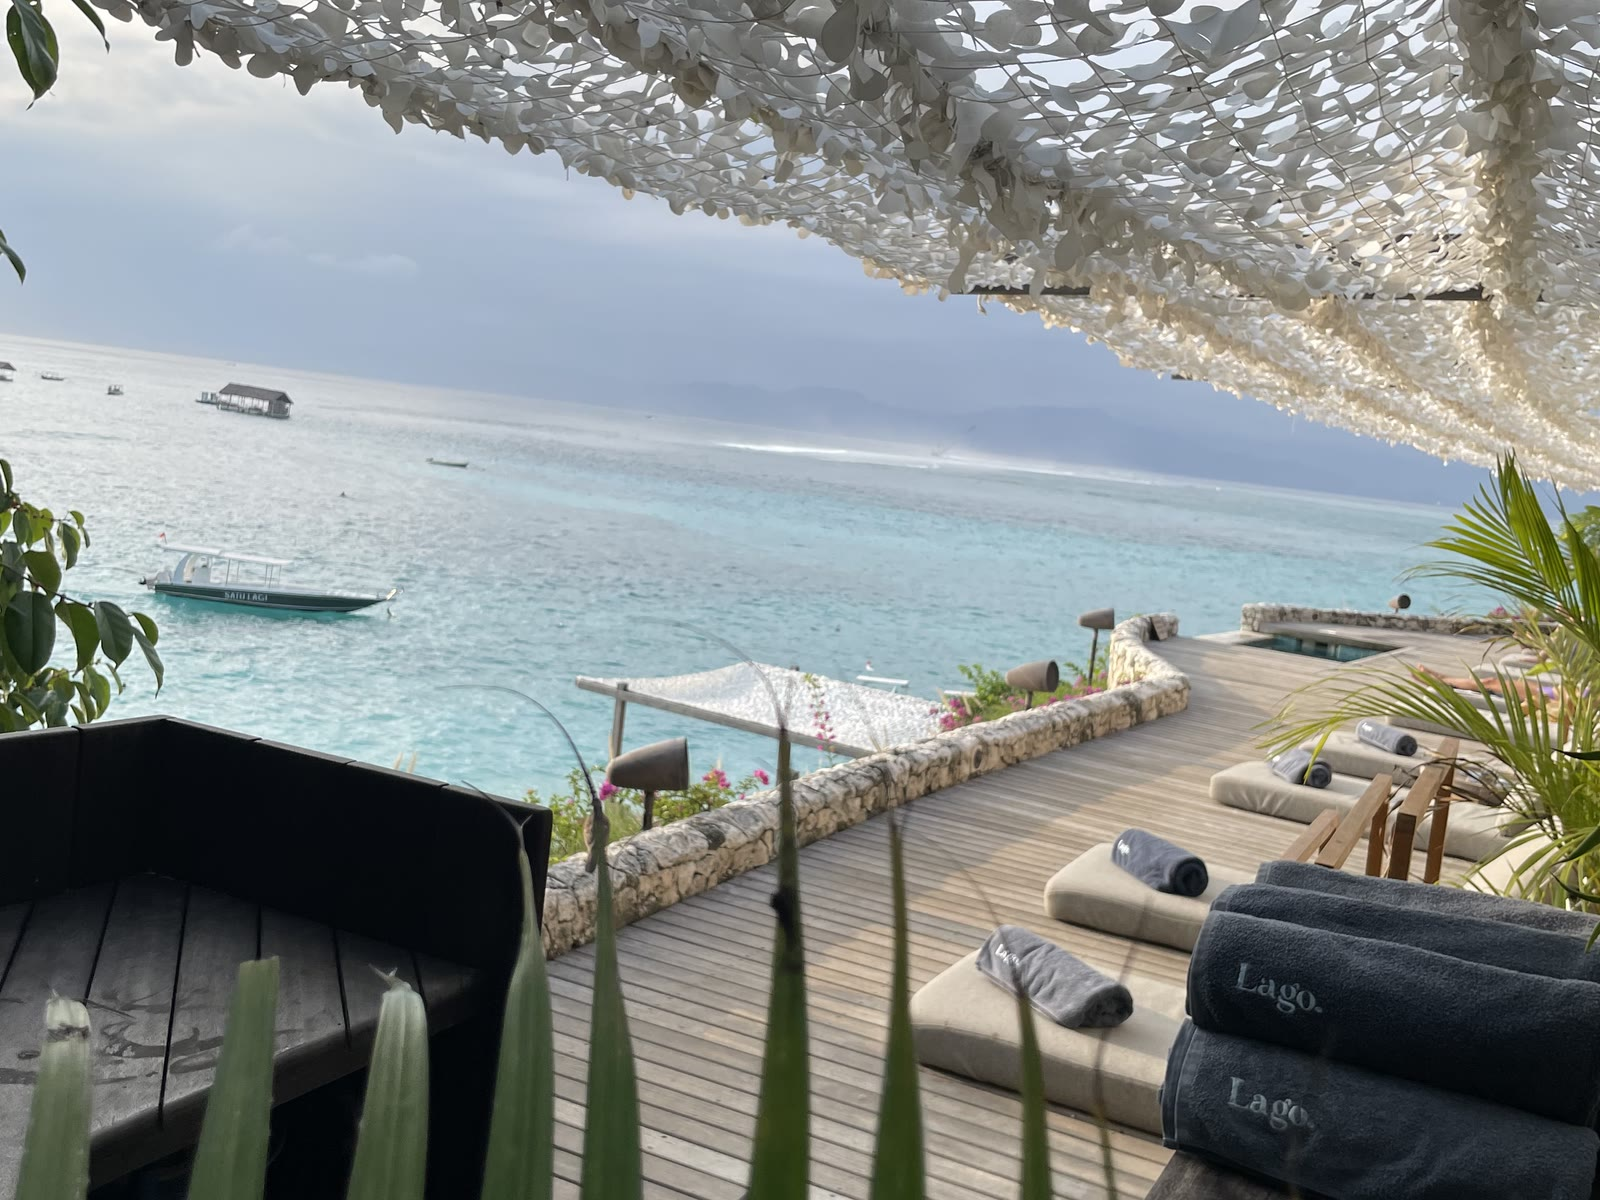
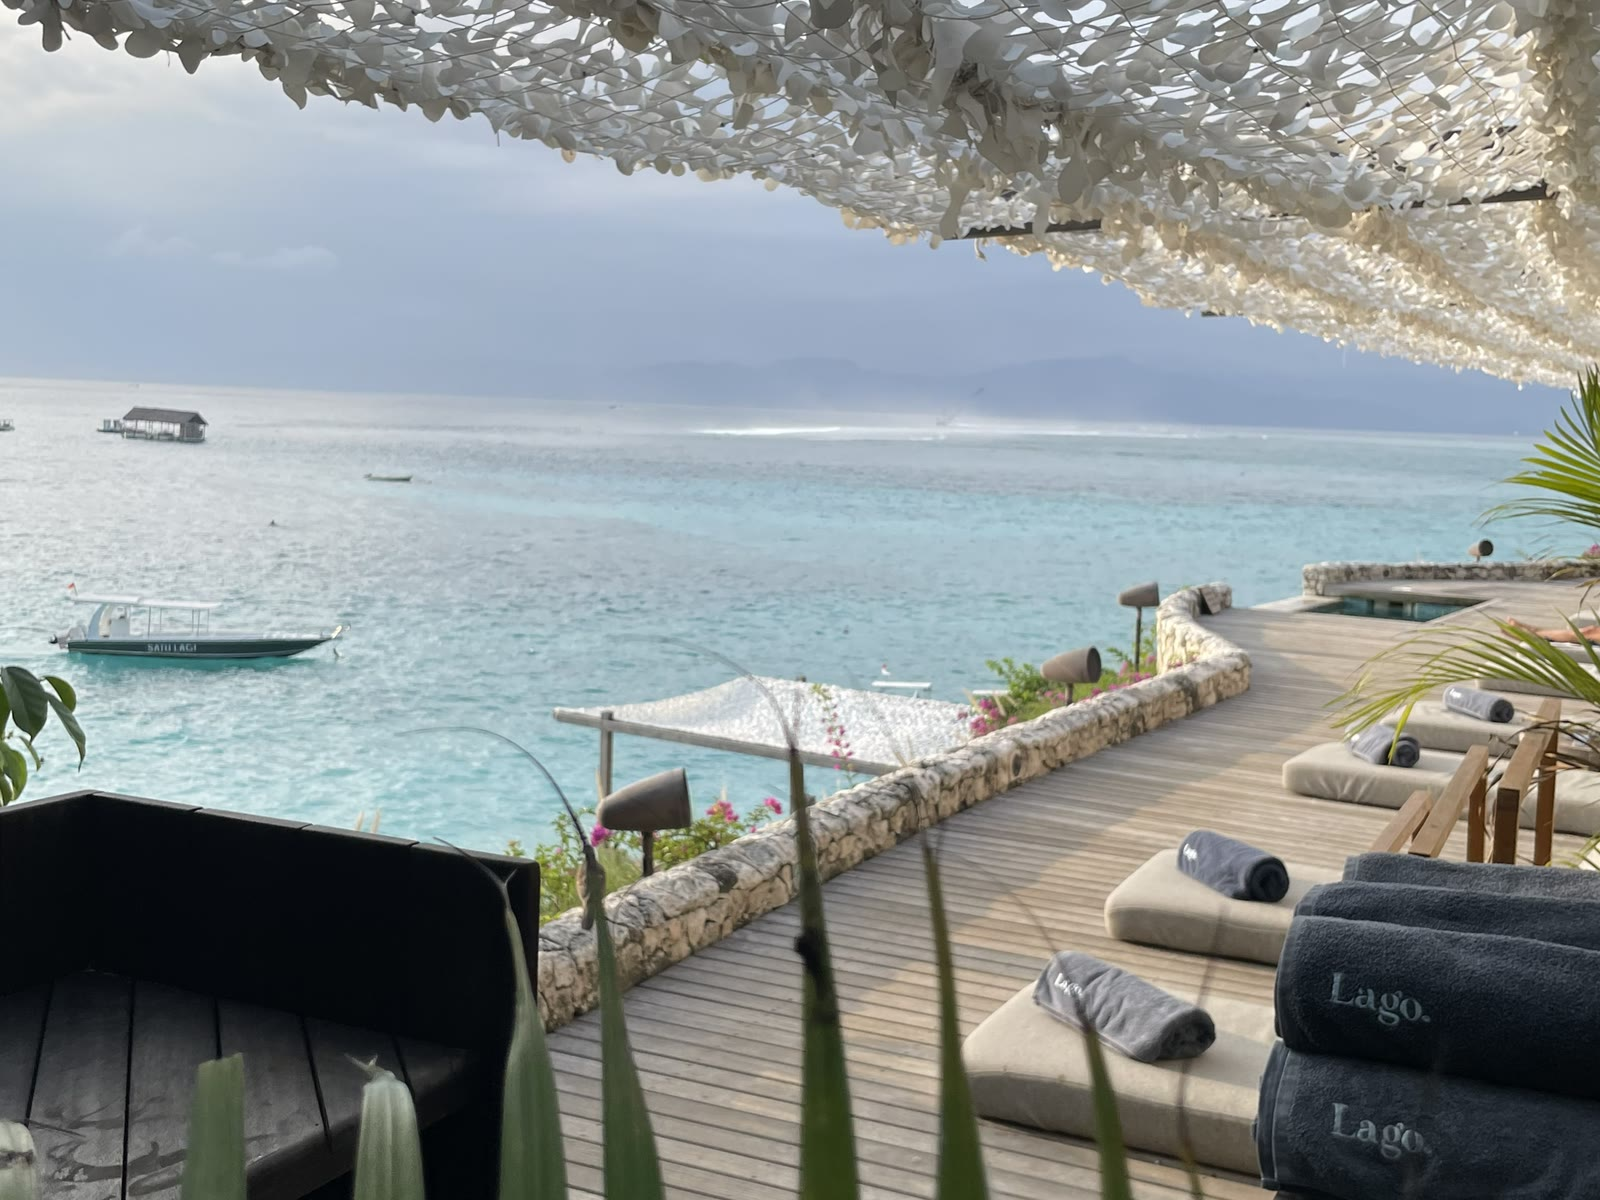
Travels: Bali deck photo levelled (rotation support in the crop pipeline); Yucatán nurse-shark photo replaced by its clip

diff --git a/travels/index.html b/travels/index.html
@@ -43,7 +43,7 @@
 
   <div class="trips">
     <a class="trip" href="#bali"><img src="img/bali/01.jpg" alt="" loading="lazy"><span class="tn">Bali</span><span class="tc">10 photos · 7 videos</span></a>
-    <a class="trip" href="#yucatan"><img src="img/yucatan/01.jpg" alt="" loading="lazy"><span class="tn">Yucatán</span><span class="tc">10 photos · 13 videos</span></a>
+    <a class="trip" href="#yucatan"><img src="img/yucatan/01.jpg" alt="" loading="lazy"><span class="tn">Yucatán</span><span class="tc">9 photos · 13 videos</span></a>
     <a class="trip" href="#tulum"><img src="img/tulum/04.jpg" alt="" loading="lazy"><span class="tn">Tulum</span><span class="tc">5 photos · 5 videos</span></a>
     <a class="trip" href="#baja"><img src="img/baja/01.jpg" alt="" loading="lazy"><span class="tn">Baja</span><span class="tc">7 photos · 6 videos</span></a>
     <a class="trip" href="#bolivia"><img src="img/bolivia/01.jpg" alt="" loading="lazy"><span class="tn">Bolivia</span><span class="tc">14 photos</span></a>
@@ -82,29 +82,28 @@
   <section class="gallery" id="yucatan">
     <a class="close" href="#travels" aria-label="close">×</a>
     <div class="strip">
-      <figure class="slide" id="yucatan-1"><a class="nav prev" href="#yucatan-23" aria-label="previous">‹</a><img src="img/yucatan/01.jpg" alt="" loading="lazy"><a class="nav next" href="#yucatan-2" aria-label="next">›</a><figcaption>Yucatán · 1 / 23</figcaption></figure>
-      <figure class="slide" id="yucatan-2"><a class="nav prev" href="#yucatan-1" aria-label="previous">‹</a><img src="img/yucatan/02.jpg" alt="" loading="lazy"><a class="nav next" href="#yucatan-3" aria-label="next">›</a><figcaption>Yucatán · 2 / 23</figcaption></figure>
-      <figure class="slide" id="yucatan-3"><a class="nav prev" href="#yucatan-2" aria-label="previous">‹</a><img src="img/yucatan/03.jpg" alt="" loading="lazy"><a class="nav next" href="#yucatan-4" aria-label="next">›</a><figcaption>Yucatán · 3 / 23</figcaption></figure>
-      <figure class="slide" id="yucatan-4"><a class="nav prev" href="#yucatan-3" aria-label="previous">‹</a><img src="img/yucatan/04.jpg" alt="" loading="lazy"><a class="nav next" href="#yucatan-5" aria-label="next">›</a><figcaption>Yucatán · 4 / 23</figcaption></figure>
-      <figure class="slide" id="yucatan-5"><a class="nav prev" href="#yucatan-4" aria-label="previous">‹</a><img src="img/yucatan/05.jpg" alt="" loading="lazy"><a class="nav next" href="#yucatan-6" aria-label="next">›</a><figcaption>Yucatán · 5 / 23</figcaption></figure>
-      <figure class="slide" id="yucatan-6"><a class="nav prev" href="#yucatan-5" aria-label="previous">‹</a><img src="img/yucatan/06.jpg" alt="" loading="lazy"><a class="nav next" href="#yucatan-7" aria-label="next">›</a><figcaption>Yucatán · 6 / 23</figcaption></figure>
-      <figure class="slide" id="yucatan-7"><a class="nav prev" href="#yucatan-6" aria-label="previous">‹</a><img src="img/yucatan/07.jpg" alt="" loading="lazy"><a class="nav next" href="#yucatan-8" aria-label="next">›</a><figcaption>Yucatán · 7 / 23</figcaption></figure>
-      <figure class="slide" id="yucatan-8"><a class="nav prev" href="#yucatan-7" aria-label="previous">‹</a><img src="img/yucatan/08.jpg" alt="" loading="lazy"><a class="nav next" href="#yucatan-9" aria-label="next">›</a><figcaption>Yucatán · 8 / 23</figcaption></figure>
-      <figure class="slide" id="yucatan-9"><a class="nav prev" href="#yucatan-8" aria-label="previous">‹</a><img src="img/yucatan/09.jpg" alt="" loading="lazy"><a class="nav next" href="#yucatan-10" aria-label="next">›</a><figcaption>Yucatán · 9 / 23</figcaption></figure>
-      <figure class="slide" id="yucatan-10"><a class="nav prev" href="#yucatan-9" aria-label="previous">‹</a><img src="img/yucatan/10.jpg" alt="" loading="lazy"><a class="nav next" href="#yucatan-11" aria-label="next">›</a><figcaption>Yucatán · 10 / 23</figcaption></figure>
-      <figure class="slide" id="yucatan-11"><a class="nav prev" href="#yucatan-10" aria-label="previous">‹</a><video controls preload="none" playsinline poster="img/yucatan/angelita-43.jpg"><source src="https://media.gcarosso.bio/travels/yucatan/angelita-43.mp4" type="video/mp4"></video><a class="nav next" href="#yucatan-12" aria-label="next">›</a><figcaption>Yucatán · 11 / 23 · video</figcaption></figure>
-      <figure class="slide" id="yucatan-12"><a class="nav prev" href="#yucatan-11" aria-label="previous">‹</a><video controls preload="none" playsinline poster="img/yucatan/angelita2-43.jpg"><source src="https://media.gcarosso.bio/travels/yucatan/angelita2-43.mp4" type="video/mp4"></video><a class="nav next" href="#yucatan-13" aria-label="next">›</a><figcaption>Yucatán · 12 / 23 · video</figcaption></figure>
-      <figure class="slide" id="yucatan-13"><a class="nav prev" href="#yucatan-12" aria-label="previous">‹</a><video controls preload="none" playsinline poster="img/yucatan/dosojos-43.jpg"><source src="https://media.gcarosso.bio/travels/yucatan/dosojos-43.mp4" type="video/mp4"></video><a class="nav next" href="#yucatan-14" aria-label="next">›</a><figcaption>Yucatán · 13 / 23 · video</figcaption></figure>
-      <figure class="slide" id="yucatan-14"><a class="nav prev" href="#yucatan-13" aria-label="previous">‹</a><video controls preload="none" playsinline poster="img/yucatan/dosojos2-43.jpg"><source src="https://media.gcarosso.bio/travels/yucatan/dosojos2-43.mp4" type="video/mp4"></video><a class="nav next" href="#yucatan-15" aria-label="next">›</a><figcaption>Yucatán · 14 / 23 · video</figcaption></figure>
-      <figure class="slide" id="yucatan-15"><a class="nav prev" href="#yucatan-14" aria-label="previous">‹</a><video controls preload="none" playsinline poster="img/yucatan/gx011168-43.jpg"><source src="https://media.gcarosso.bio/travels/yucatan/gx011168-43.mp4" type="video/mp4"></video><a class="nav next" href="#yucatan-16" aria-label="next">›</a><figcaption>Yucatán · 15 / 23 · video</figcaption></figure>
-      <figure class="slide" id="yucatan-16"><a class="nav prev" href="#yucatan-15" aria-label="previous">‹</a><video controls preload="none" playsinline poster="img/yucatan/gx011179-43.jpg"><source src="https://media.gcarosso.bio/travels/yucatan/gx011179-43.mp4" type="video/mp4"></video><a class="nav next" href="#yucatan-17" aria-label="next">›</a><figcaption>Yucatán · 16 / 23 · video</figcaption></figure>
-      <figure class="slide" id="yucatan-17"><a class="nav prev" href="#yucatan-16" aria-label="previous">‹</a><video controls preload="none" playsinline poster="img/yucatan/gx011197-43.jpg"><source src="https://media.gcarosso.bio/travels/yucatan/gx011197-43.mp4" type="video/mp4"></video><a class="nav next" href="#yucatan-18" aria-label="next">›</a><figcaption>Yucatán · 17 / 23 · video</figcaption></figure>
-      <figure class="slide" id="yucatan-18"><a class="nav prev" href="#yucatan-17" aria-label="previous">‹</a><video controls preload="none" playsinline poster="img/yucatan/gx011240-43.jpg"><source src="https://media.gcarosso.bio/travels/yucatan/gx011240-43.mp4" type="video/mp4"></video><a class="nav next" href="#yucatan-19" aria-label="next">›</a><figcaption>Yucatán · 18 / 23 · video</figcaption></figure>
-      <figure class="slide" id="yucatan-19"><a class="nav prev" href="#yucatan-18" aria-label="previous">‹</a><video controls preload="none" playsinline poster="img/yucatan/gx011242-43.jpg"><source src="https://media.gcarosso.bio/travels/yucatan/gx011242-43.mp4" type="video/mp4"></video><a class="nav next" href="#yucatan-20" aria-label="next">›</a><figcaption>Yucatán · 19 / 23 · video</figcaption></figure>
-      <figure class="slide" id="yucatan-20"><a class="nav prev" href="#yucatan-19" aria-label="previous">‹</a><video controls preload="none" playsinline poster="img/yucatan/gx011259-43.jpg"><source src="https://media.gcarosso.bio/travels/yucatan/gx011259-43.mp4" type="video/mp4"></video><a class="nav next" href="#yucatan-21" aria-label="next">›</a><figcaption>Yucatán · 20 / 23 · video</figcaption></figure>
-      <figure class="slide" id="yucatan-21"><a class="nav prev" href="#yucatan-20" aria-label="previous">‹</a><video controls preload="none" playsinline poster="img/yucatan/nurseshark-43.jpg"><source src="https://media.gcarosso.bio/travels/yucatan/nurseshark-43.mp4" type="video/mp4"></video><a class="nav next" href="#yucatan-22" aria-label="next">›</a><figcaption>Yucatán · 21 / 23 · video</figcaption></figure>
-      <figure class="slide" id="yucatan-22"><a class="nav prev" href="#yucatan-21" aria-label="previous">‹</a><video controls preload="none" playsinline poster="img/yucatan/zapote-43.jpg"><source src="https://media.gcarosso.bio/travels/yucatan/zapote-43.mp4" type="video/mp4"></video><a class="nav next" href="#yucatan-23" aria-label="next">›</a><figcaption>Yucatán · 22 / 23 · video</figcaption></figure>
-      <figure class="slide" id="yucatan-23"><a class="nav prev" href="#yucatan-22" aria-label="previous">‹</a><video controls preload="none" playsinline poster="img/yucatan/zapote2-43.jpg"><source src="https://media.gcarosso.bio/travels/yucatan/zapote2-43.mp4" type="video/mp4"></video><a class="nav next" href="#yucatan-1" aria-label="next">›</a><figcaption>Yucatán · 23 / 23 · video</figcaption></figure>
+      <figure class="slide" id="yucatan-1"><a class="nav prev" href="#yucatan-22" aria-label="previous">‹</a><img src="img/yucatan/01.jpg" alt="" loading="lazy"><a class="nav next" href="#yucatan-2" aria-label="next">›</a><figcaption>Yucatán · 1 / 22</figcaption></figure>
+      <figure class="slide" id="yucatan-2"><a class="nav prev" href="#yucatan-1" aria-label="previous">‹</a><img src="img/yucatan/02.jpg" alt="" loading="lazy"><a class="nav next" href="#yucatan-3" aria-label="next">›</a><figcaption>Yucatán · 2 / 22</figcaption></figure>
+      <figure class="slide" id="yucatan-3"><a class="nav prev" href="#yucatan-2" aria-label="previous">‹</a><img src="img/yucatan/03.jpg" alt="" loading="lazy"><a class="nav next" href="#yucatan-4" aria-label="next">›</a><figcaption>Yucatán · 3 / 22</figcaption></figure>
+      <figure class="slide" id="yucatan-4"><a class="nav prev" href="#yucatan-3" aria-label="previous">‹</a><img src="img/yucatan/04.jpg" alt="" loading="lazy"><a class="nav next" href="#yucatan-5" aria-label="next">›</a><figcaption>Yucatán · 4 / 22</figcaption></figure>
+      <figure class="slide" id="yucatan-5"><a class="nav prev" href="#yucatan-4" aria-label="previous">‹</a><img src="img/yucatan/05.jpg" alt="" loading="lazy"><a class="nav next" href="#yucatan-6" aria-label="next">›</a><figcaption>Yucatán · 5 / 22</figcaption></figure>
+      <figure class="slide" id="yucatan-6"><a class="nav prev" href="#yucatan-5" aria-label="previous">‹</a><img src="img/yucatan/06.jpg" alt="" loading="lazy"><a class="nav next" href="#yucatan-7" aria-label="next">›</a><figcaption>Yucatán · 6 / 22</figcaption></figure>
+      <figure class="slide" id="yucatan-7"><a class="nav prev" href="#yucatan-6" aria-label="previous">‹</a><img src="img/yucatan/07.jpg" alt="" loading="lazy"><a class="nav next" href="#yucatan-8" aria-label="next">›</a><figcaption>Yucatán · 7 / 22</figcaption></figure>
+      <figure class="slide" id="yucatan-8"><a class="nav prev" href="#yucatan-7" aria-label="previous">‹</a><img src="img/yucatan/08.jpg" alt="" loading="lazy"><a class="nav next" href="#yucatan-9" aria-label="next">›</a><figcaption>Yucatán · 8 / 22</figcaption></figure>
+      <figure class="slide" id="yucatan-9"><a class="nav prev" href="#yucatan-8" aria-label="previous">‹</a><img src="img/yucatan/09.jpg" alt="" loading="lazy"><a class="nav next" href="#yucatan-10" aria-label="next">›</a><figcaption>Yucatán · 9 / 22</figcaption></figure>
+      <figure class="slide" id="yucatan-10"><a class="nav prev" href="#yucatan-9" aria-label="previous">‹</a><video controls preload="none" playsinline poster="img/yucatan/nurseshark-43.jpg"><source src="https://media.gcarosso.bio/travels/yucatan/nurseshark-43.mp4" type="video/mp4"></video><a class="nav next" href="#yucatan-11" aria-label="next">›</a><figcaption>Yucatán · 10 / 22 · video</figcaption></figure>
+      <figure class="slide" id="yucatan-11"><a class="nav prev" href="#yucatan-10" aria-label="previous">‹</a><video controls preload="none" playsinline poster="img/yucatan/angelita-43.jpg"><source src="https://media.gcarosso.bio/travels/yucatan/angelita-43.mp4" type="video/mp4"></video><a class="nav next" href="#yucatan-12" aria-label="next">›</a><figcaption>Yucatán · 11 / 22 · video</figcaption></figure>
+      <figure class="slide" id="yucatan-12"><a class="nav prev" href="#yucatan-11" aria-label="previous">‹</a><video controls preload="none" playsinline poster="img/yucatan/angelita2-43.jpg"><source src="https://media.gcarosso.bio/travels/yucatan/angelita2-43.mp4" type="video/mp4"></video><a class="nav next" href="#yucatan-13" aria-label="next">›</a><figcaption>Yucatán · 12 / 22 · video</figcaption></figure>
+      <figure class="slide" id="yucatan-13"><a class="nav prev" href="#yucatan-12" aria-label="previous">‹</a><video controls preload="none" playsinline poster="img/yucatan/dosojos-43.jpg"><source src="https://media.gcarosso.bio/travels/yucatan/dosojos-43.mp4" type="video/mp4"></video><a class="nav next" href="#yucatan-14" aria-label="next">›</a><figcaption>Yucatán · 13 / 22 · video</figcaption></figure>
+      <figure class="slide" id="yucatan-14"><a class="nav prev" href="#yucatan-13" aria-label="previous">‹</a><video controls preload="none" playsinline poster="img/yucatan/dosojos2-43.jpg"><source src="https://media.gcarosso.bio/travels/yucatan/dosojos2-43.mp4" type="video/mp4"></video><a class="nav next" href="#yucatan-15" aria-label="next">›</a><figcaption>Yucatán · 14 / 22 · video</figcaption></figure>
+      <figure class="slide" id="yucatan-15"><a class="nav prev" href="#yucatan-14" aria-label="previous">‹</a><video controls preload="none" playsinline poster="img/yucatan/gx011168-43.jpg"><source src="https://media.gcarosso.bio/travels/yucatan/gx011168-43.mp4" type="video/mp4"></video><a class="nav next" href="#yucatan-16" aria-label="next">›</a><figcaption>Yucatán · 15 / 22 · video</figcaption></figure>
+      <figure class="slide" id="yucatan-16"><a class="nav prev" href="#yucatan-15" aria-label="previous">‹</a><video controls preload="none" playsinline poster="img/yucatan/gx011179-43.jpg"><source src="https://media.gcarosso.bio/travels/yucatan/gx011179-43.mp4" type="video/mp4"></video><a class="nav next" href="#yucatan-17" aria-label="next">›</a><figcaption>Yucatán · 16 / 22 · video</figcaption></figure>
+      <figure class="slide" id="yucatan-17"><a class="nav prev" href="#yucatan-16" aria-label="previous">‹</a><video controls preload="none" playsinline poster="img/yucatan/gx011197-43.jpg"><source src="https://media.gcarosso.bio/travels/yucatan/gx011197-43.mp4" type="video/mp4"></video><a class="nav next" href="#yucatan-18" aria-label="next">›</a><figcaption>Yucatán · 17 / 22 · video</figcaption></figure>
+      <figure class="slide" id="yucatan-18"><a class="nav prev" href="#yucatan-17" aria-label="previous">‹</a><video controls preload="none" playsinline poster="img/yucatan/gx011240-43.jpg"><source src="https://media.gcarosso.bio/travels/yucatan/gx011240-43.mp4" type="video/mp4"></video><a class="nav next" href="#yucatan-19" aria-label="next">›</a><figcaption>Yucatán · 18 / 22 · video</figcaption></figure>
+      <figure class="slide" id="yucatan-19"><a class="nav prev" href="#yucatan-18" aria-label="previous">‹</a><video controls preload="none" playsinline poster="img/yucatan/gx011242-43.jpg"><source src="https://media.gcarosso.bio/travels/yucatan/gx011242-43.mp4" type="video/mp4"></video><a class="nav next" href="#yucatan-20" aria-label="next">›</a><figcaption>Yucatán · 19 / 22 · video</figcaption></figure>
+      <figure class="slide" id="yucatan-20"><a class="nav prev" href="#yucatan-19" aria-label="previous">‹</a><video controls preload="none" playsinline poster="img/yucatan/gx011259-43.jpg"><source src="https://media.gcarosso.bio/travels/yucatan/gx011259-43.mp4" type="video/mp4"></video><a class="nav next" href="#yucatan-21" aria-label="next">›</a><figcaption>Yucatán · 20 / 22 · video</figcaption></figure>
+      <figure class="slide" id="yucatan-21"><a class="nav prev" href="#yucatan-20" aria-label="previous">‹</a><video controls preload="none" playsinline poster="img/yucatan/zapote-43.jpg"><source src="https://media.gcarosso.bio/travels/yucatan/zapote-43.mp4" type="video/mp4"></video><a class="nav next" href="#yucatan-22" aria-label="next">›</a><figcaption>Yucatán · 21 / 22 · video</figcaption></figure>
+      <figure class="slide" id="yucatan-22"><a class="nav prev" href="#yucatan-21" aria-label="previous">‹</a><video controls preload="none" playsinline poster="img/yucatan/zapote2-43.jpg"><source src="https://media.gcarosso.bio/travels/yucatan/zapote2-43.mp4" type="video/mp4"></video><a class="nav next" href="#yucatan-1" aria-label="next">›</a><figcaption>Yucatán · 22 / 22 · video</figcaption></figure>
     </div>
   </section>
   <section class="gallery" id="tulum">
